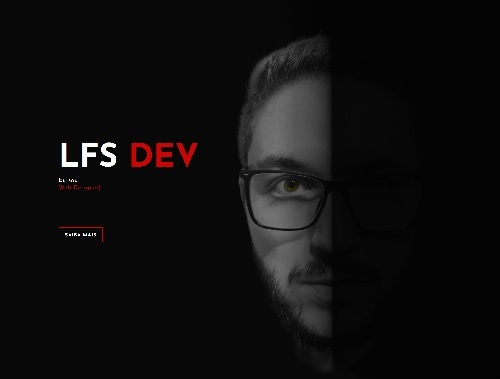
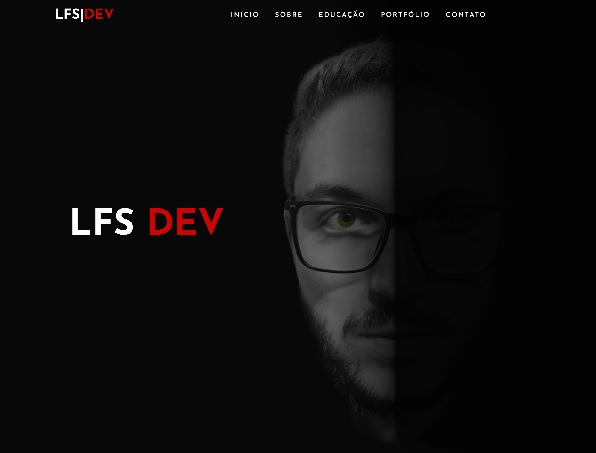
commit

diff --git a/style.css b/style.css
@@ -112,7 +112,7 @@ span {
 /* ----- No Select -----*/
 
 .home,
-header,
+.header,
 .about,
 .graduation,
 .projects,
@@ -121,8 +121,8 @@ header,
 h2,
 h1,
 h3,
-h4,
-p {
+h4
+ {
   -webkit-touch-callout: none;
 
   -webkit-user-select: none;
@@ -151,6 +151,9 @@ p {
   height: auto;
 }
 
+#header .logo {
+  margin-left: 10px;
+}
 #header .header {
   min-height: 8vh;
   background-color: rgba(07, 07, 07, 0.068);
@@ -170,7 +173,8 @@ p {
 #header .nav-list ul {
   list-style: none;
   position: absolute;
-  background-color: rgb(31, 30, 30);
+  background-color: rgba(15, 15, 15, 0.2);
+  backdrop-filter: blur(8px);
   width: 100vw;
   height: 100vh;
   left: 100%;
@@ -181,7 +185,7 @@ p {
   align-items: center;
   z-index: 1;
   overflow-x: hidden;
-  transition: 0.5s ease left;
+  transition: 0.6s ease left;
 }
 
 #header .nav-list ul.active {
@@ -200,12 +204,12 @@ p {
 }
 
 #header .nav-list ul a::after {
-  content: attr(data-after);
+  content: '';
   position: absolute;
   top: 50%;
   left: 50%;
   transform: translate(-50%, -50%) scale(0);
-  color: rgb(240, 248, 255, 0.021);
+  color: rgb(255, 255, 255, 0.020);
   font-size: 8rem;
   letter-spacing: 50px;
   z-index: -1;
@@ -222,8 +226,8 @@ p {
 }
 
 #header .burger {
-  height: 60px;
-  width: 60px;
+  height: 50px;
+  width: 50px;
   display: inline-block;
   border: 3px solid white;
   border-radius: 50%;
@@ -239,7 +243,7 @@ p {
 
 #header .burger::after {
   position: absolute;
-  content: "";
+  content: " ";
   height: 100%;
   width: 100%;
   border-radius: 50%;
@@ -249,7 +253,7 @@ p {
 
 #header .burger .bar {
   height: 2px;
-  width: 30px;
+  width: 20px;
   position: relative;
   background-color: #fff;
   z-index: -1;
@@ -257,7 +261,7 @@ p {
 
 #header .burger .bar::after,
 #header .burger .bar::before {
-  content: "";
+  content: " ";
   position: absolute;
   height: 100%;
   width: 100%;
@@ -524,7 +528,7 @@ p {
 }
 
 #graduation .graduation-item h4 {
-  color: rgb(193, 193, 193);
+  color: #fff;
   text-align: left;
   font-weight: 400;
 }
@@ -574,8 +578,13 @@ p {
   box-shadow: 0px 0px 0px 5px var(--third-bg-color);
 }
 
+
 #projects .project-item:first-child {
   background-color: #121212;
+}
+
+#projects .project-item:last-child{
+  background-color: #050505;
 }
 
 #projects .projects .all-projects .project-info h3 {
@@ -588,7 +597,7 @@ p {
   display: flex;
   justify-content: center;
   flex-direction: column;
-  background: linear-gradient(180deg, #202020 10%, var(--third-bg-color) 100%);
+  background: linear-gradient(90deg, #151515 10%, #202020 100%);
   text-align: justify;
 }
 
@@ -612,7 +621,7 @@ p {
   overflow: hidden;
   position: relative;
   cursor: pointer;
-  background-color: transparent;
+  background-color: #121212;
 }
 
 /* #projects .project-img::after {
@@ -760,8 +769,10 @@ p {
     font-size: 2.5rem;
   }
 
-  #header .burger {
+  #header .burger .bar {
     display: none;
+    background-color: transparent;
+    color: transparent;
   }
 
   #header .nav-list ul {

diff --git a/index.html b/index.html
@@ -37,7 +37,7 @@
     <section id="header">
         <div class="header container">
             <div class="nav-bar">
-                <div class="brand">
+                <div class="logo">
                     <a href="#home"><h1>LFS|<span>DEV</span></h1></a>
                 </div>
                 <div class="nav-list">
@@ -312,6 +312,7 @@
 
     <!--Javascript-->
 
+
     <script>
         var coll = document.getElementsByClassName("graduation-collapsible");
         var i;
@@ -338,6 +339,16 @@
             backSpeed: 60,
             loop: true
         })
+    </script> -->
+    <!-- <script>
+        function copyDivToClipboard() {
+            var range = document.createRange();
+            range.selectNode(document.getElementById("a"));
+            window.getSelection().removeAllRanges(); // clear current selection
+            window.getSelection().addRange(range); // to select text
+            document.execCommand("copy");
+            window.getSelection().removeAllRanges();// to deselect
+        }
     </script> -->
 
 </body>
